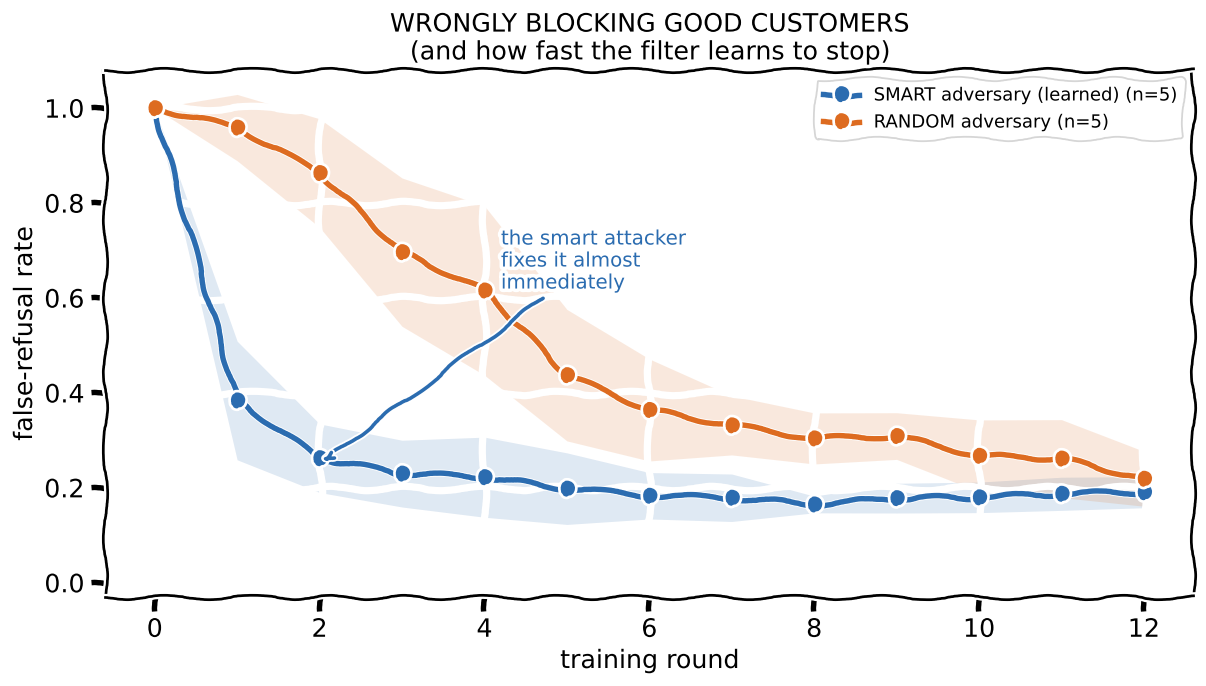
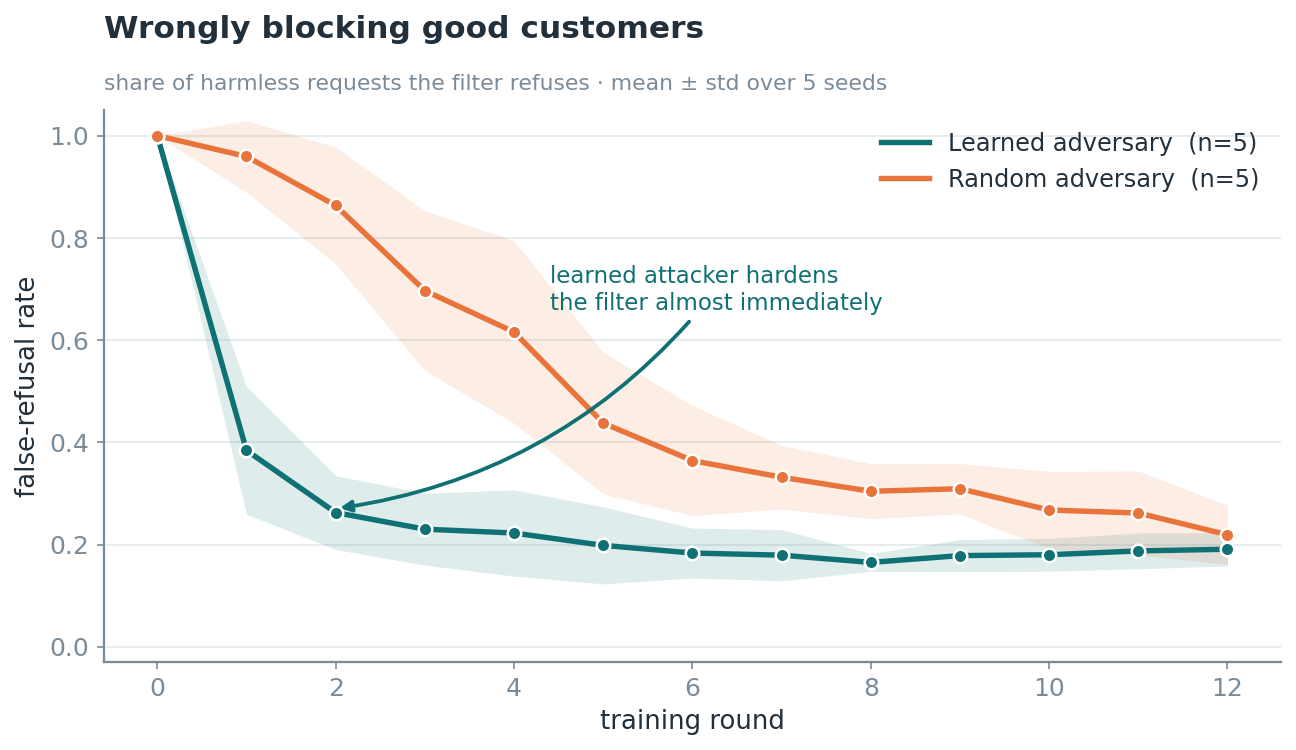
Publication-style plots (teal/orange palette, despined, clean typography)

Changed region(s): [[0.0, 0.0, 1.0, 0.9796]]

diff --git a/scripts/plot_fr.py b/scripts/plot_fr.py
@@ -1,4 +1,4 @@
-"""Average the false-refusal experiment over seeds and plot it in a hand-drawn (xkcd) style.
+"""Average the false-refusal experiment over seeds and plot it (publication style).
 
 Plots: false-refusal rate, classifier accuracy, time-to-harden, category coverage, trigger rate.
 Usage: python scripts/plot_fr.py [n_seeds]
@@ -19,9 +19,36 @@ n = int(sys.argv[1]) if len(sys.argv) > 1 else 5
 out = Path("runs/expfr_compare")
 out.mkdir(parents=True, exist_ok=True)
 
-SMART, RAND = "#2b6cb0", "#dd6b20"  # blue / orange
-LAB = {"grpo": "SMART adversary (learned)", "greedy": "RANDOM adversary"}
+# --- palette + style ---
+SMART, RAND = "#0F7173", "#E8743B"   # deep teal / warm orange
+INK, MUTE = "#22303C", "#7A8B99"
+LAB = {"grpo": "Learned adversary", "greedy": "Random adversary"}
 COL = {"grpo": SMART, "greedy": RAND}
+
+plt.rcParams.update({
+    "figure.facecolor": "white", "axes.facecolor": "white",
+    "font.family": "sans-serif",
+    "font.sans-serif": ["Helvetica", "Arial", "DejaVu Sans"],
+    "font.size": 12, "axes.titlesize": 15, "axes.titleweight": "bold",
+    "axes.labelsize": 12.5, "axes.labelcolor": INK, "text.color": INK,
+    "axes.edgecolor": MUTE, "xtick.color": MUTE, "ytick.color": MUTE,
+    "axes.linewidth": 1.1, "figure.dpi": 150, "savefig.dpi": 150,
+})
+
+
+def newax(figsize=(8.8, 5.2)):
+    fig, ax = plt.subplots(figsize=figsize)
+    ax.spines["top"].set_visible(False)
+    ax.spines["right"].set_visible(False)
+    ax.grid(axis="y", color="#E7ECEF", lw=1.0, zorder=0)
+    ax.set_axisbelow(True)
+    return fig, ax
+
+
+def title(ax, head, sub=None):
+    ax.text(0, 1.12, head, transform=ax.transAxes, fontsize=15, fontweight="bold", color=INK, va="bottom")
+    if sub:
+        ax.text(0, 1.03, sub, transform=ax.transAxes, fontsize=10.5, color=MUTE, va="bottom")
 
 
 def series(mode, field):
@@ -40,82 +67,84 @@ def series(mode, field):
 def band(ax, mode, arr, marker="o"):
     x = np.arange(arr.shape[1])
     m, sd = np.nanmean(arr, 0), np.nanstd(arr, 0)
-    ax.plot(x, m, marker + "-", color=COL[mode], lw=3, ms=7, label=f"{LAB[mode]} (n={arr.shape[0]})")
-    ax.fill_between(x, m - sd, m + sd, color=COL[mode], alpha=0.15, lw=0)
+    ax.fill_between(x, m - sd, m + sd, color=COL[mode], alpha=0.13, lw=0, zorder=2)
+    ax.plot(x, m, "-", color=COL[mode], lw=2.6, zorder=3, label=f"{LAB[mode]}  (n={arr.shape[0]})")
+    ax.plot(x, m, marker, color=COL[mode], ms=6.5, mec="white", mew=1.2, zorder=4)
 
 
-def style(ax, title, ylab, ylim=None, legend=True):
-    ax.set_title(title, fontsize=14)
-    ax.set_xlabel("training round")
-    ax.set_ylabel(ylab)
-    if ylim:
-        ax.set_ylim(*ylim)
-    if legend:
-        ax.legend(loc="best", fontsize=10)
-    ax.grid(alpha=0.25)
+def legend(ax, **kw):
+    lg = ax.legend(frameon=False, fontsize=11.5, **kw)
+    for t in lg.get_texts():
+        t.set_color(INK)
 
 
-with plt.xkcd(scale=2.2, length=100, randomness=3):
-    # 1) false-refusal rate
-    fig, ax = plt.subplots(figsize=(9.5, 5.5), dpi=130)
-    for mode in ("grpo", "greedy"):
-        a = series(mode, "false_refusal")
-        if a is not None:
-            band(ax, mode, a)
-    ax.annotate("the smart attacker\nfixes it almost\nimmediately", xy=(2, 0.25), xytext=(4.2, 0.62),
-                fontsize=11, color=SMART, arrowprops=dict(arrowstyle="->", color=SMART, lw=2))
-    style(ax, "WRONGLY BLOCKING GOOD CUSTOMERS\n(and how fast the filter learns to stop)",
-          "false-refusal rate", (-0.03, 1.08))
-    fig.tight_layout(); fig.savefig(out / "false_refusal.png", bbox_inches="tight"); plt.close(fig)
+# 1) false-refusal rate ------------------------------------------------------
+fig, ax = newax()
+for mode in ("grpo", "greedy"):
+    a = series(mode, "false_refusal")
+    if a is not None:
+        band(ax, mode, a)
+ax.annotate("learned attacker hardens\nthe filter almost immediately",
+            xy=(2, 0.27), xytext=(4.4, 0.66), fontsize=11, color=SMART,
+            arrowprops=dict(arrowstyle="-|>", color=SMART, lw=1.8, connectionstyle="arc3,rad=-0.2"))
+ax.set_xlabel("training round"); ax.set_ylabel("false-refusal rate"); ax.set_ylim(-0.03, 1.05)
+title(ax, "Wrongly blocking good customers", "share of harmless requests the filter refuses · mean ± std over 5 seeds")
+legend(ax, loc="upper right")
+fig.tight_layout(); fig.savefig(out / "false_refusal.png", bbox_inches="tight"); plt.close(fig)
 
-    # 2) classifier accuracy
-    fig, ax = plt.subplots(figsize=(9.5, 5.5), dpi=130)
-    for mode in ("grpo", "greedy"):
-        a = series(mode, "general_acc")
-        if a is not None:
-            band(ax, mode, a, marker="s")
-    style(ax, "THE FILTER GETS GOOD FASTER\nwhen trained by the smart attacker",
-          "overall accuracy", (0.45, 1.03))
-    fig.tight_layout(); fig.savefig(out / "classifier_accuracy.png", bbox_inches="tight"); plt.close(fig)
+# 2) classifier accuracy -----------------------------------------------------
+fig, ax = newax()
+for mode in ("grpo", "greedy"):
+    a = series(mode, "general_acc")
+    if a is not None:
+        band(ax, mode, a, marker="s")
+ax.set_xlabel("training round"); ax.set_ylabel("overall accuracy"); ax.set_ylim(0.86, 1.005)
+title(ax, "The filter gets accurate faster", "balanced allow/block accuracy · mean ± std over 5 seeds")
+legend(ax, loc="lower right")
+fig.tight_layout(); fig.savefig(out / "classifier_accuracy.png", bbox_inches="tight"); plt.close(fig)
 
-    # 3) time-to-harden (rounds until false-refusal first drops below 0.30)
-    THRESH = 0.30
-    fig, ax = plt.subplots(figsize=(7.5, 5.5), dpi=130)
-    means, errs, cols, labs = [], [], [], []
-    for mode in ("grpo", "greedy"):
-        a = series(mode, "false_refusal")
-        if a is None:
-            continue
-        times = []
-        for row in a:
-            hit = np.where(row <= THRESH)[0]
-            times.append(hit[0] if len(hit) else a.shape[1] - 1)
-        means.append(np.mean(times)); errs.append(np.std(times)); cols.append(COL[mode]); labs.append(LAB[mode].split(" ")[0])
-    ax.bar(labs, means, yerr=errs, color=cols, capsize=8, width=0.55, alpha=0.9)
-    for i, m in enumerate(means):
-        ax.text(i, m + 0.2, f"{m:.0f} rounds", ha="center", fontsize=12)
-    style(ax, "HOW LONG UNTIL THE FILTER STOPS\nOVER-REFUSING? (lower = better)", "rounds to harden", legend=False)
-    ax.set_xlabel("")
-    fig.tight_layout(); fig.savefig(out / "time_to_harden.png", bbox_inches="tight"); plt.close(fig)
+# 3) time-to-harden ----------------------------------------------------------
+THRESH = 0.30
+fig, ax = plt.subplots(figsize=(6.4, 5.2))
+ax.spines["top"].set_visible(False); ax.spines["right"].set_visible(False)
+ax.grid(axis="y", color="#E7ECEF", lw=1.0, zorder=0); ax.set_axisbelow(True)
+labs, means, errs, cols = [], [], [], []
+for mode in ("grpo", "greedy"):
+    a = series(mode, "false_refusal")
+    if a is None:
+        continue
+    t = [(np.where(r <= THRESH)[0][0] if np.any(r <= THRESH) else a.shape[1] - 1) for r in a]
+    labs.append(LAB[mode].split()[0]); means.append(np.mean(t)); errs.append(np.std(t)); cols.append(COL[mode])
+bars = ax.bar(labs, means, yerr=errs, color=cols, width=0.6, zorder=3,
+              error_kw=dict(ecolor=INK, lw=1.5, capsize=7), edgecolor="white", lw=1.5)
+for i, m in enumerate(means):
+    ax.text(i, m + max(errs) * 0.12 + 0.15, f"{m:.0f} rounds", ha="center", fontsize=13, color=INK, fontweight="bold")
+ax.set_ylabel("rounds to harden"); ax.set_ylim(0, max(means) + max(errs) + 1.2)
+title(ax, "Time to stop over-refusing", "rounds until false-refusal drops below 30% · lower is better")
+fig.tight_layout(); fig.savefig(out / "time_to_harden.png", bbox_inches="tight"); plt.close(fig)
 
-    # 4) category coverage
-    fig, ax = plt.subplots(figsize=(9.5, 5.5), dpi=130)
-    for mode in ("grpo", "greedy"):
-        a = series(mode, "categories")
-        if a is not None:
-            band(ax, mode, np.maximum.accumulate(a, axis=1), marker="^")  # cumulative categories found
-    ax.axhline(6, ls="--", color="gray", lw=1.5)
-    ax.text(0.2, 6.05, "all 6 weak spots", fontsize=9, color="gray")
-    style(ax, "FINDING THE FILTER'S BLIND SPOTS\n(6 hidden trigger types)", "blind-spot categories found", (-0.2, 6.5))
-    fig.tight_layout(); fig.savefig(out / "category_coverage.png", bbox_inches="tight"); plt.close(fig)
+# 4) category coverage -------------------------------------------------------
+fig, ax = newax()
+for mode in ("grpo", "greedy"):
+    a = series(mode, "categories")
+    if a is not None:
+        band(ax, mode, np.maximum.accumulate(a, axis=1), marker="^")
+ax.axhline(6, ls=(0, (4, 3)), color=MUTE, lw=1.3)
+ax.text(0.15, 6.08, "all 6 blind spots", fontsize=10.5, color=MUTE)
+ax.set_xlabel("training round"); ax.set_ylabel("blind-spot categories found"); ax.set_ylim(-0.2, 6.6)
+title(ax, "Finding the filter's blind spots", "6 hidden trigger categories · mean ± std over 5 seeds")
+legend(ax, loc="lower right")
+fig.tight_layout(); fig.savefig(out / "category_coverage.png", bbox_inches="tight"); plt.close(fig)
 
-    # 5) trigger rate (efficiency)
-    fig, ax = plt.subplots(figsize=(9.5, 5.5), dpi=130)
-    for mode in ("grpo", "greedy"):
-        a = series(mode, "trigger_rate")
-        if a is not None:
-            band(ax, mode, np.nan_to_num(a), marker="D")
-    style(ax, "WHY: THE SMART ATTACKER RARELY MISSES\n(random wastes its shots on decoys)", "fraction of attacks that land")
-    fig.tight_layout(); fig.savefig(out / "trigger_rate.png", bbox_inches="tight"); plt.close(fig)
+# 5) trigger rate ------------------------------------------------------------
+fig, ax = newax()
+for mode in ("grpo", "greedy"):
+    a = series(mode, "trigger_rate")
+    if a is not None:
+        band(ax, mode, np.nan_to_num(a), marker="D")
+ax.set_xlabel("training round"); ax.set_ylabel("fraction of attacks that land"); ax.set_ylim(-0.03, 1.02)
+title(ax, "Why: the learned attacker rarely misses", "random wastes its attempts on decoy transforms · mean ± std over 5 seeds")
+legend(ax, loc="upper right")
+fig.tight_layout(); fig.savefig(out / "trigger_rate.png", bbox_inches="tight"); plt.close(fig)
 
-print("wrote 5 plots to", out)
+print("wrote 5 publication-style plots to", out)
